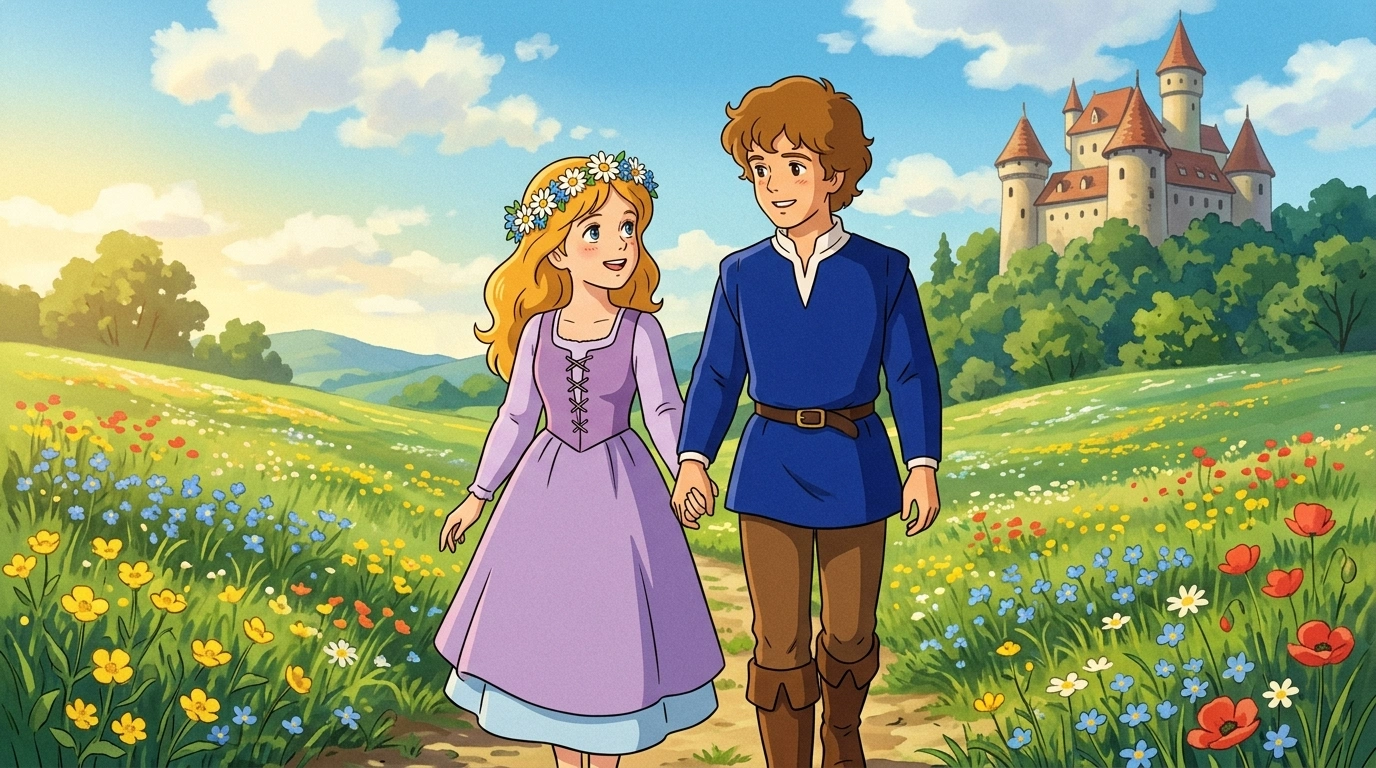
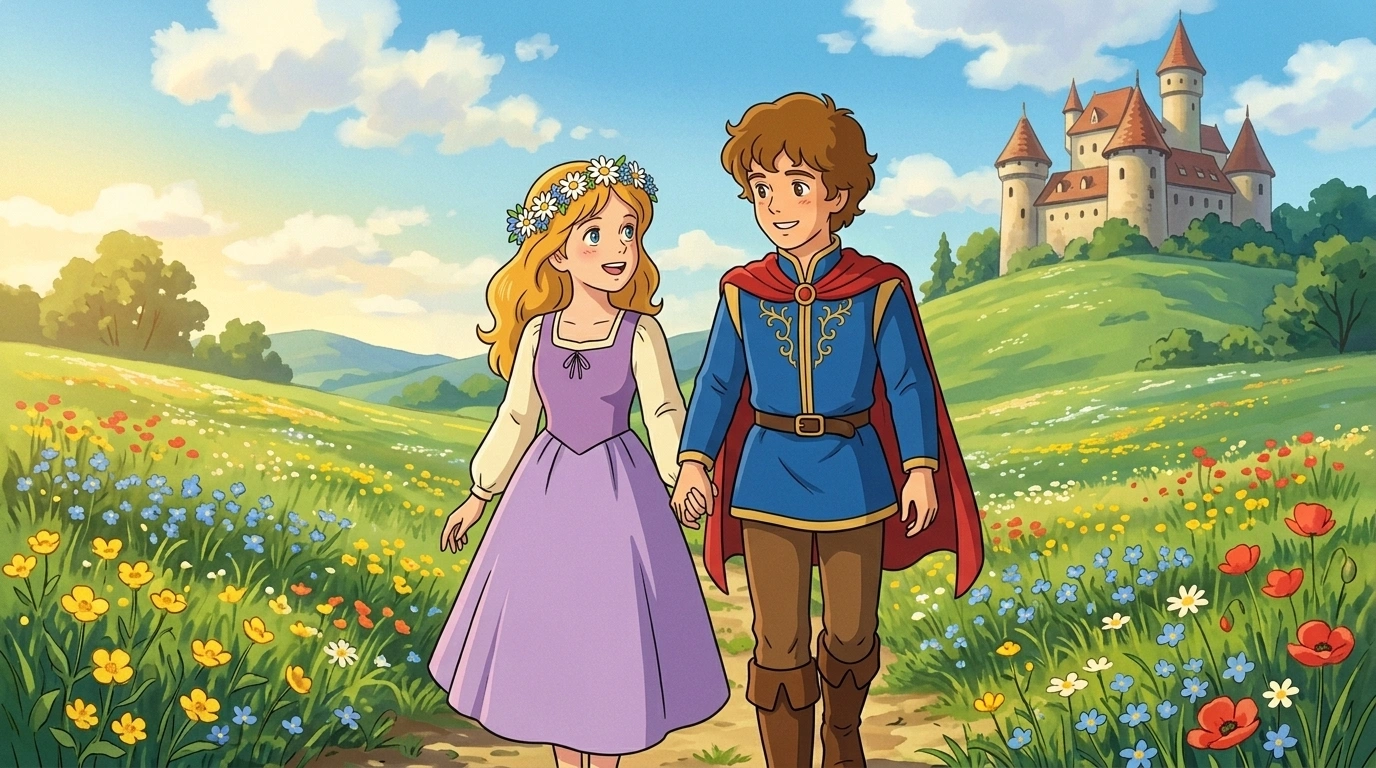
feat(rapunzel): unify 08-ending-2 with 04-prince outfit (red cape and gold-embroidered blue tunic) and approved Rapunzel model

Changed region(s): [[0.3125, 0.0938, 0.9688, 1.0], [0.2188, 0.6562, 0.25, 0.6875], [0.1562, 0.625, 0.1875, 0.6562]]

diff --git a/learning/literacy-numeracy/story-books/world-tales/rapunzel/app.js b/learning/literacy-numeracy/story-books/world-tales/rapunzel/app.js
@@ -278,7 +278,7 @@ const CHAPTERS = [
 function artFrame(src, emoji) {
     return `
         <div class="art-frame">
-            <img src="images/${src}?v=20261104a" alt="" onerror="this.style.display='none'; this.nextElementSibling.style.display='flex';">
+            <img src="images/${src}?v=20261105a" alt="" onerror="this.style.display='none'; this.nextElementSibling.style.display='flex';">
             <div class="art-fallback" style="display:none">${emoji}</div>
         </div>`;
 }

diff --git a/learning/literacy-numeracy/story-books/world-tales/rapunzel/index.html b/learning/literacy-numeracy/story-books/world-tales/rapunzel/index.html
@@ -38,6 +38,6 @@
 
     <script src="/assets/learning-records.js?v=20261006-book"></script>
     <script src="/assets/learning-book.js?v=20261007-scroll"></script>
-    <script src="app.js?v=20261104a"></script>
+    <script src="app.js?v=20261105a"></script>
 </body>
 </html>
